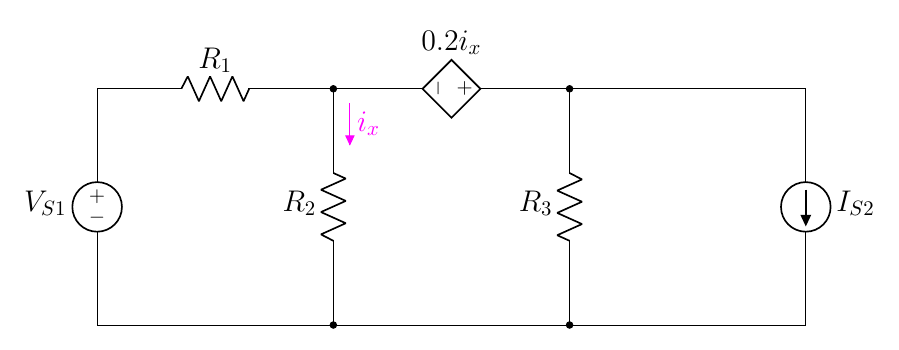
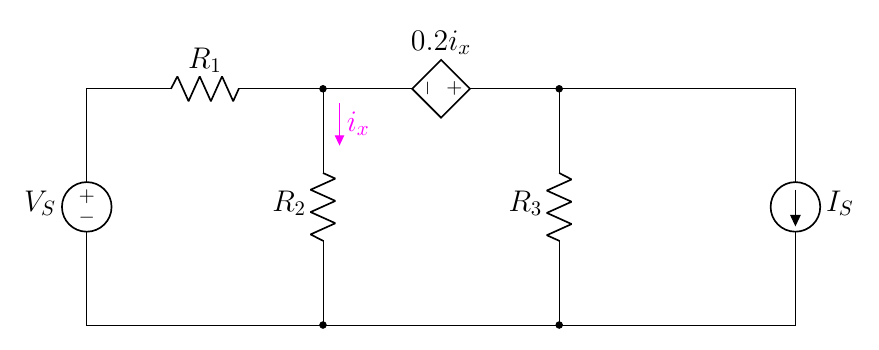
edit 5.11

diff --git a/1.7 Superposition/5.1 Linearity and Superposition/5.11(new).tex b/1.7 Superposition/5.1 Linearity and Superposition/5.11(new).tex
@@ -5,14 +5,14 @@
 
     \draw(0,0)
         to[short,*-] ++(-4,0)
-        to[V,l=\vsname{1}] ++(0,4)
+        to[V,l=\vsname{}] ++(0,4)
         to[R,l=\rname{1}] ++(4,0) ++(0,-4)
         to[R,l=\rname{2}] ++(0,4)
         to[american controlled voltage source, l=$0.2i_x$,*-*] ++(4,0)
         to[R,l_=\rname{3}] ++(0,-4)
         to[short,*-] ++(-4,0) ++(4,0)
         to[short] ++(4,0) ++(0,4)
-        to[I,l=\isname{2}] ++(0,-4) ++(0,4)
+        to[I,l=\isname{}] ++(0,-4) ++(0,4)
         to[short] ++(-4,0);
 
     %%% find %%%
